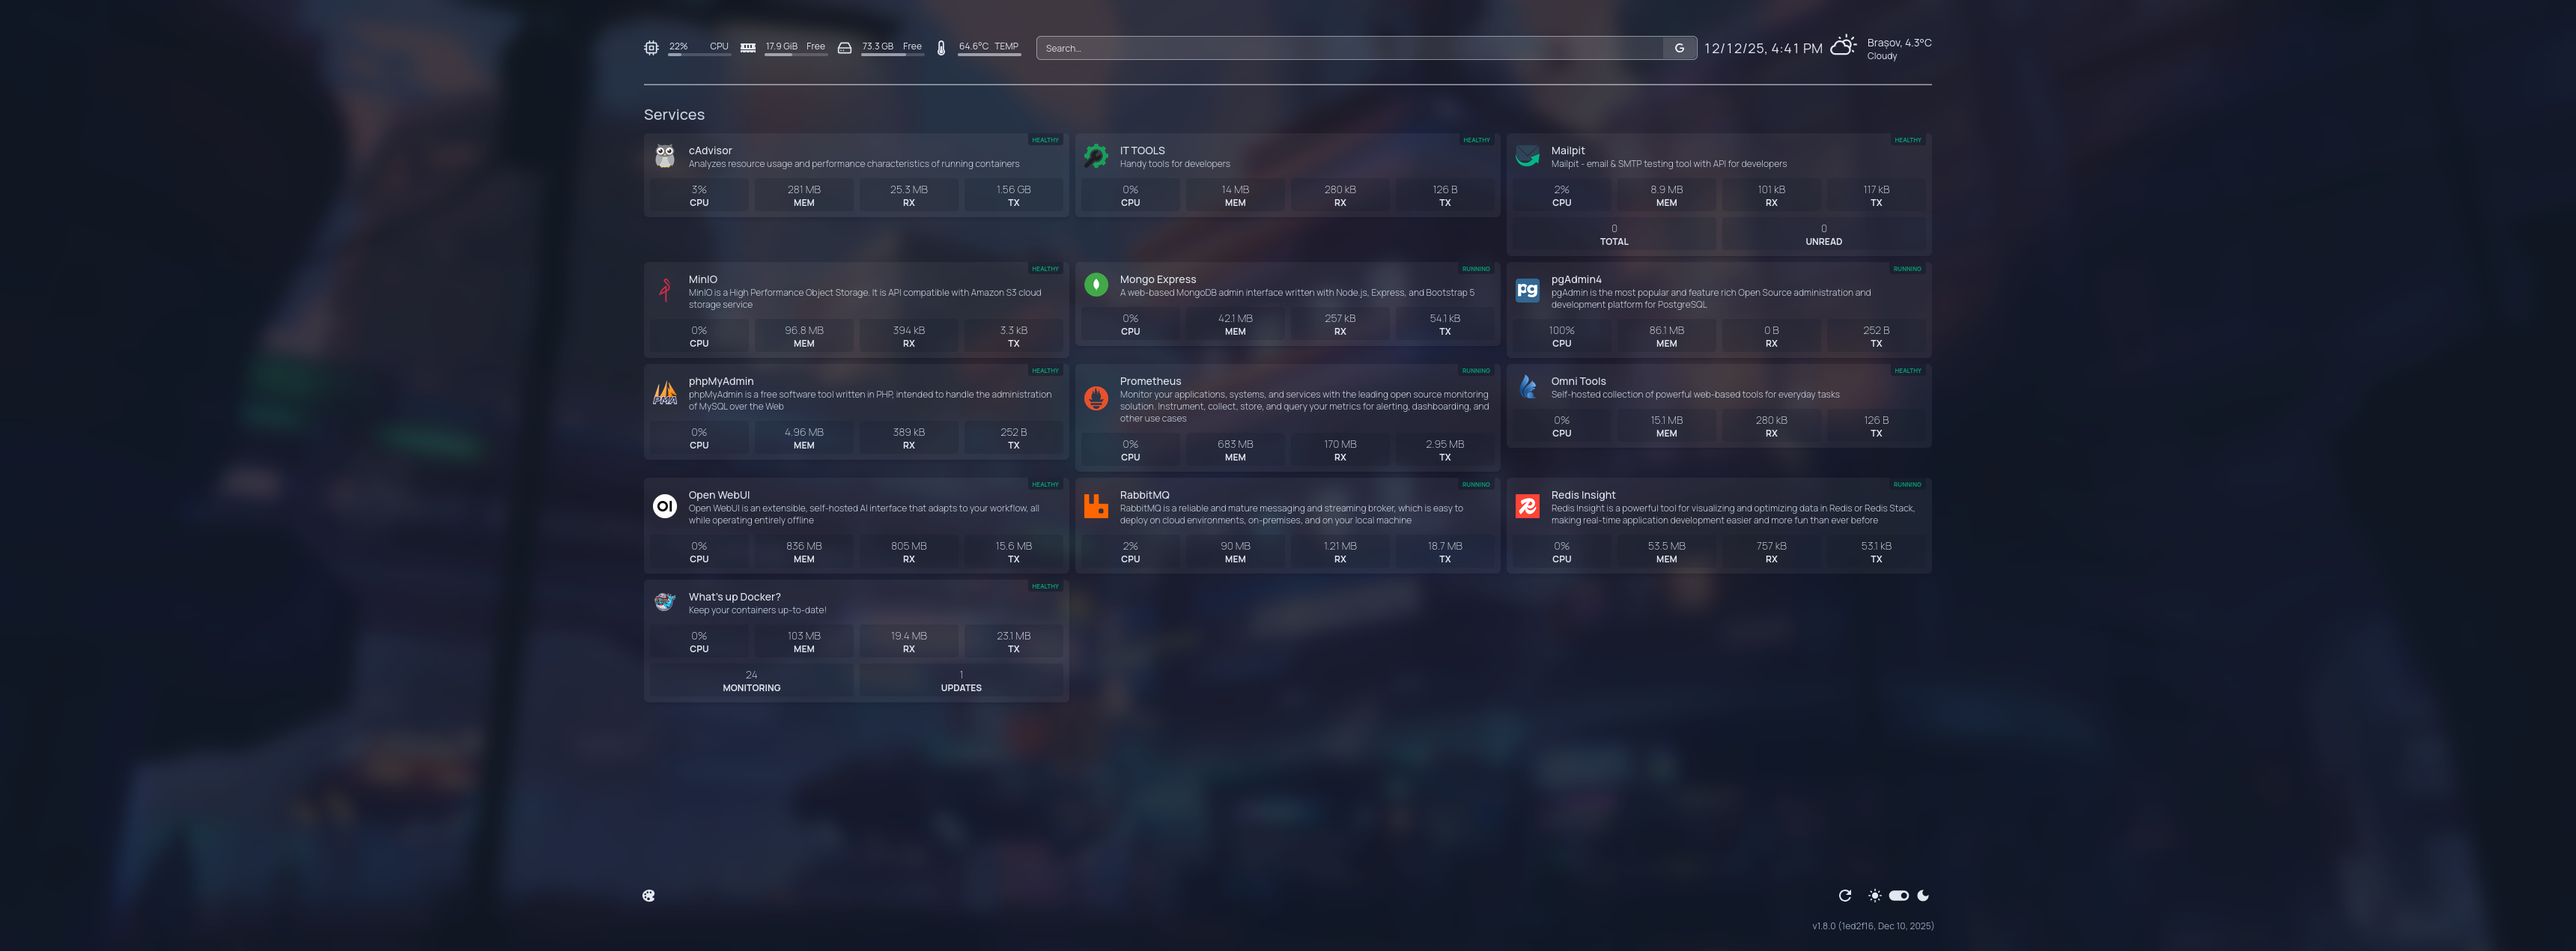
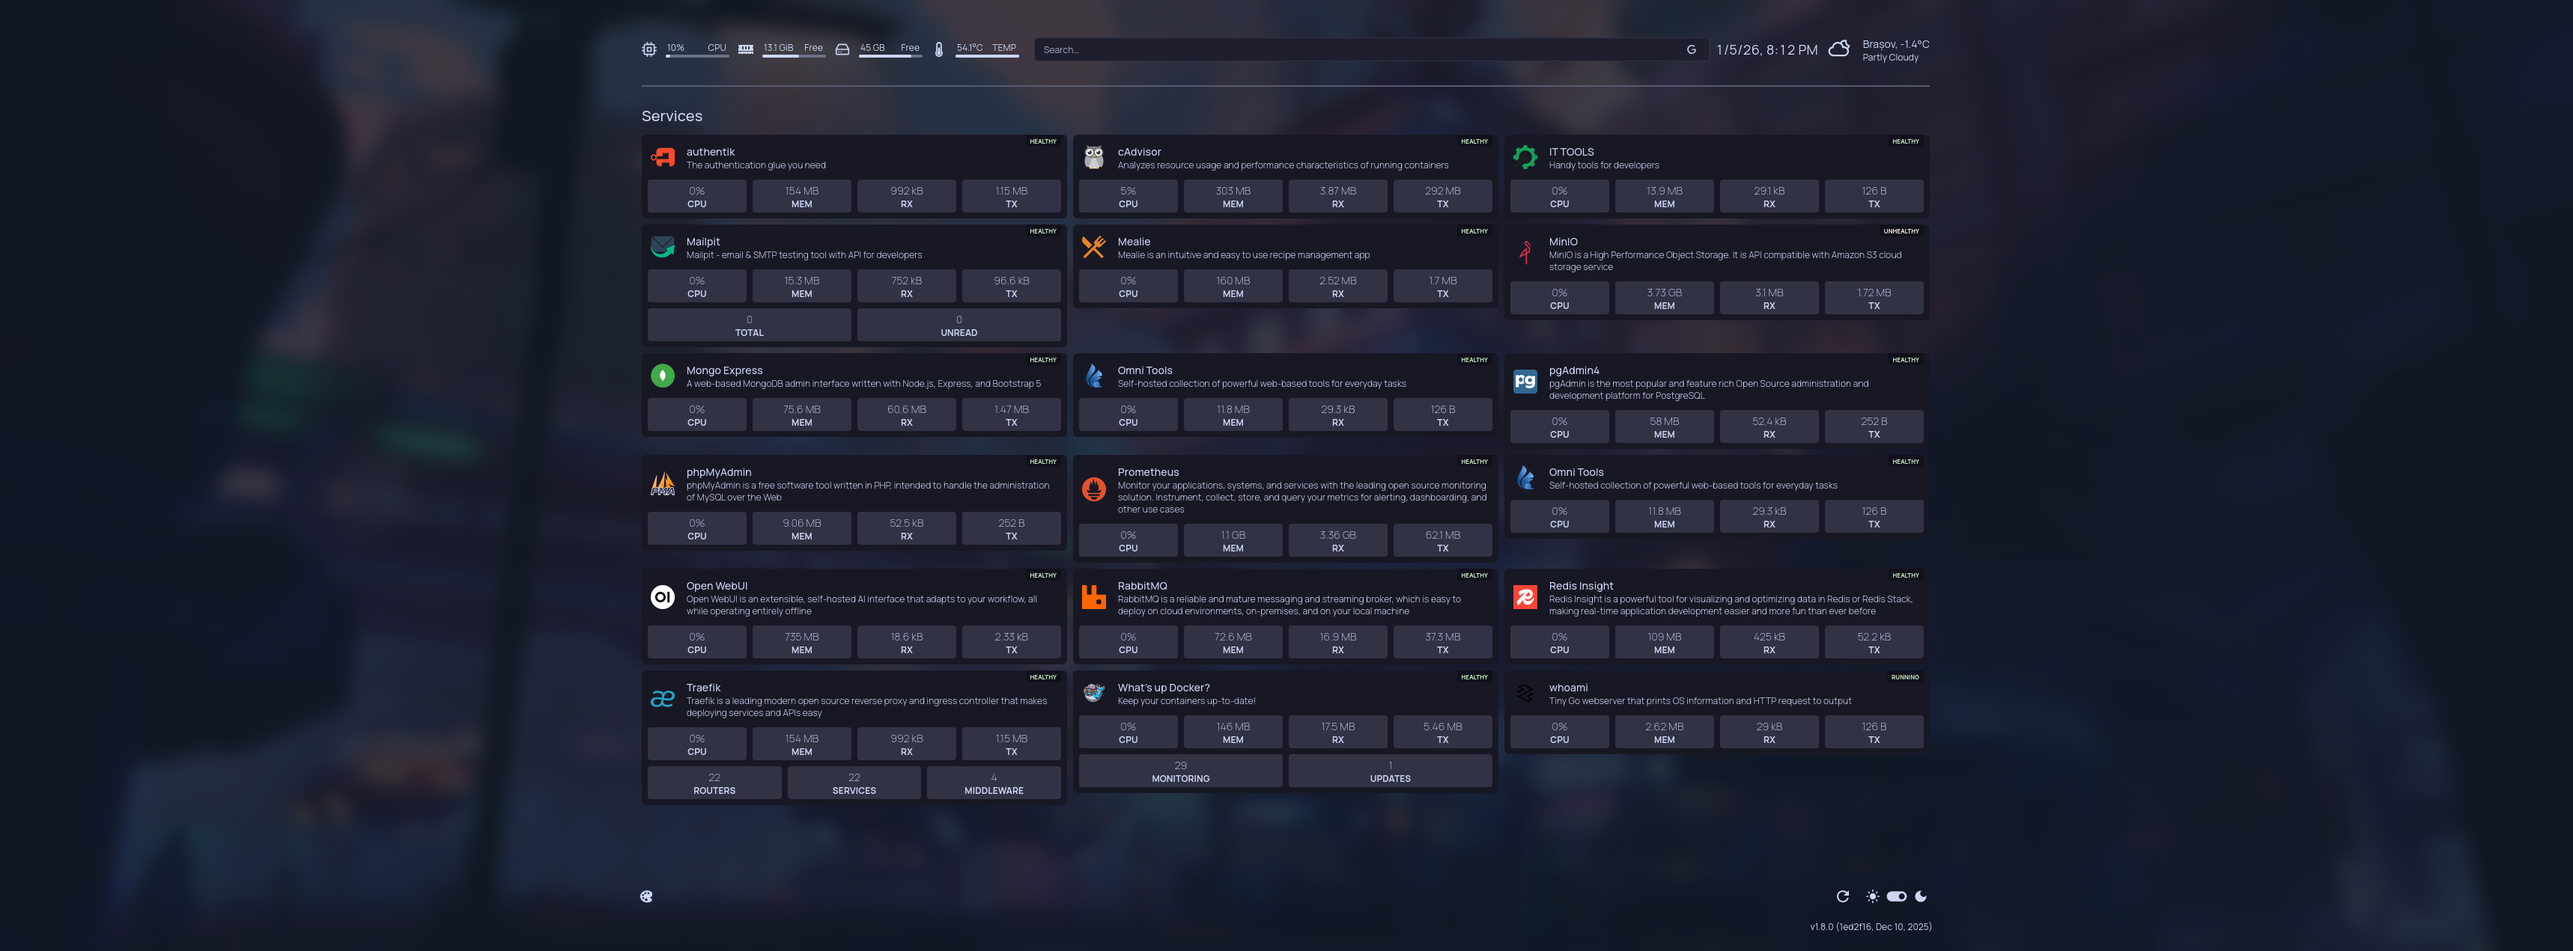
chore: update services

Changed region(s): [[0.2491, 0.0307, 0.7474, 0.8598], [0.7162, 0.952, 0.7474, 0.9827]]

diff --git a/README.md b/README.md
@@ -26,6 +26,7 @@ Before running the install script make sure [mkcert](https://github.com/FiloSott
 
 ⚠ Note: The following services require manual registration / authentication because they have payed OIDC authentication or will have in the future:
 
+- Mealie
 - MinIO
 - pgAdmin4
 - RabbitMQ
@@ -38,6 +39,9 @@ The rest of the services are protected by Authentik.
 
 ## List of available services
 
+- [authentik](https://authentik.services.local): authentik is an IdP (Identity Provider) and SSO (Single Sign On) platform that is built with security at the forefront of every piece of code, every feature, with an emphasis on flexibility and versatility
+  - [Docker Hub](https://hub.docker.com/r/authentik/server)
+  - [Dockerfile](https://github.com/goauthentik/authentik/blob/main/lifecycle/container/Dockerfile)
 - [cAdvisor](https://cadvisor.services.local): Analyzes resource usage and performance characteristics of running containers
   - [Docker Hub](https://hub.docker.com/r/google/cadvisor)
   - [Dockerfile](https://github.com/google/cadvisor/blob/master/deploy/Dockerfile)
@@ -50,6 +54,9 @@ The rest of the services are protected by Authentik.
 - [Mailpit](https://mailpit.services.local): An email and SMTP testing tool with API for developers
   - [Docker Hub](https://hub.docker.com/r/axllent/mailpit)
   - [Dockerfile](https://github.com/axllent/mailpit/blob/master/Dockerfile)
+- [Mealie](https://mealie.services.local): Mealie is an intuitive and easy to use recipe management app
+  - [Docker Hub](https://github.com/mealie-recipes/mealie/pkgs/container/mealie)
+  - [Dockerfile](https://github.com/mealie-recipes/mealie/blob/mealie-next/docker/Dockerfile)
 - [MinIO](https://minio.services.local): MinIO is a high-performance, S3 compatible object store, open sourced under GNU AGPLv3 license
   - [Docker Hub](https://hub.docker.com/r/minio/minio)
   - [Dockerfile](https://github.com/minio/minio/blob/master/Dockerfile)
@@ -59,6 +66,9 @@ The rest of the services are protected by Authentik.
 - [MySQL](null): MySQL is the world's most popular open source database
   - [Docker Hub](https://hub.docker.com/_/mysql)
   - [Dockerfile](https://github.com/docker-library/mysql/blob/master/innovation/Dockerfile.oracle)
+- [Ollama](null): Chat & build with open models
+  - [Docker Hub](https://hub.docker.com/r/ollama/ollama)
+  - [Dockerfile](https://github.com/ollama/ollama/blob/main/Dockerfile)
 - [Omni Tools](https://omni-tools.services.local): Self-hosted collection of powerful web-based tools for everyday tasks. No ads, no tracking, just fast, accessible utilities right from your browser!
   - [Docker Hub](https://hub.docker.com/r/iib0011/omni-tools)
   - [Dockerfile](https://github.com/iib0011/omni-tools/blob/main/Dockerfile)
@@ -74,6 +84,9 @@ The rest of the services are protected by Authentik.
 - [Redis](null): Redis is the world's fastest in-memory database
   - [Docker Hub](https://hub.docker.com/_/redis)
   - [Dockerfile](https://github.com/redis/docker-library-redis/blob/master/7.4/alpine/Dockerfile)
+- [Traefik](https://traefik.services.local): Traefik is your all-in-one, self-hosted, cloud-native, GitOps-driven application proxy, API gateway, and API management platform
+  - [Docker Hub](https://hub.docker.com/_/traefik)
+  - [Dockerfile](https://github.com/traefik/traefik/blob/master/Dockerfile)
 - [What's up Docker?](https://whatsupdocker.services.local): Keep your containers up-to-date!
   - [Docker Hub](https://hub.docker.com/r/getwud/wud)
   - [Dockerfile](https://github.com/getwud/wud/blob/main/Dockerfile)
